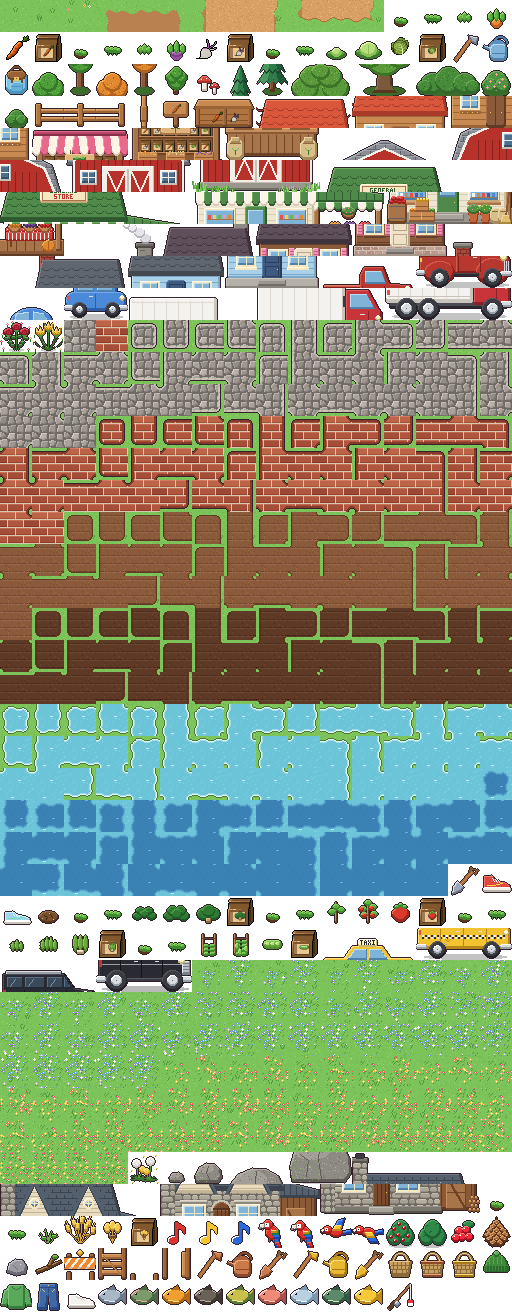
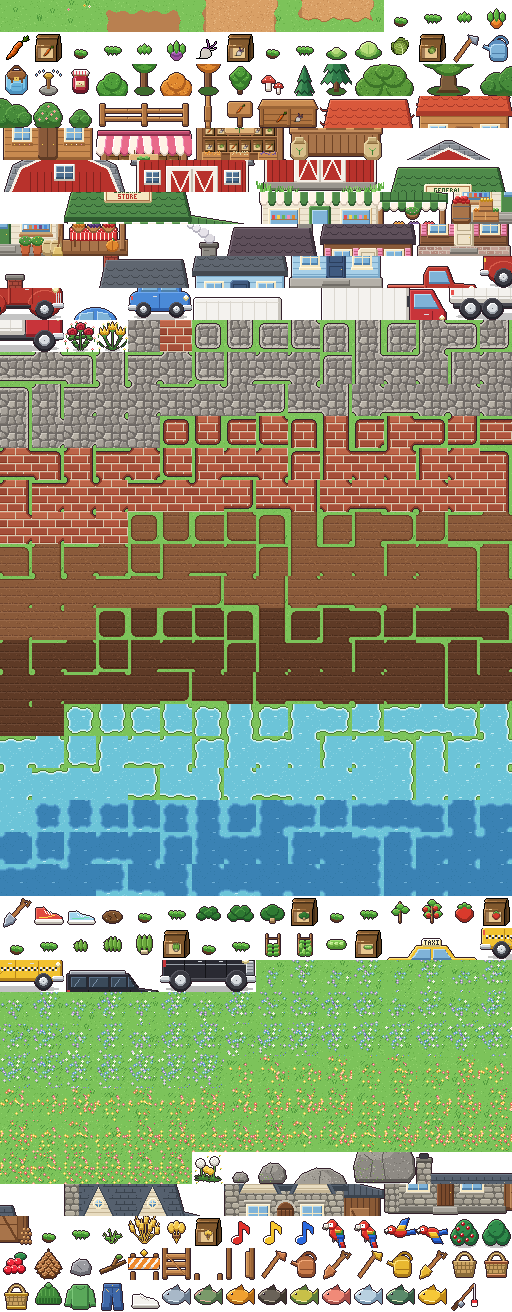
Crafting: sprinklers (water the 8 plots around them each morning) and berry jam, from Pause > Crafting
Claude-Session: https://claude.ai/code/session_015p9zHqe761HPZ9r97hGy59

diff --git a/src/art-index.js b/src/art-index.js
@@ -1,2 +1,2 @@
 // Generated by tools/make_art.py: tile names -> index in assets/art/world.png (16 columns of 32x32).
-export const A = {"grass0": 0, "grass1": 1, "grass2": 2, "path0": 3, "path1": 4, "path2": 5, "path3": 6, "path4": 7, "path5": 8, "path6": 9, "path7": 10, "path8": 11, "carrot0": 12, "carrot1": 13, "carrot2": 14, "carrot3": 15, "carrot_item": 16, "carrot_packet": 17, "turnip0": 18, "turnip1": 19, "turnip2": 20, "turnip3": 21, "turnip_item": 22, "turnip_packet": 23, "cabbage0": 24, "cabbage1": 25, "cabbage2": 26, "cabbage3": 27, "cabbage_item": 28, "cabbage_packet": 29, "hoe": 30, "can": 31, "bag": 32, "tree_green_0": 33, "tree_green_1": 34, "tree_orange_0": 35, "tree_orange_1": 36, "tree": 37, "mushrooms": 38, "pine_0": 39, "pine_1": 40, "oak_0": 41, "oak_1": 42, "oak_2": 43, "oak_3": 44, "shrub_large_0": 45, "shrub_large_1": 46, "shrub_flower": 47, "shrub_small": 48, "fence0": 49, "fence1": 50, "fence2": 51, "fence3": 52, "sign": 53, "bin_0": 54, "bin_1": 55, "house_0": 56, "house_1": 57, "house_2": 58, "house_3": 59, "house_4": 60, "house_5": 61, "house_6": 62, "house_7": 63, "house_8": 64, "shop_0": 65, "shop_1": 66, "shop_2": 67, "shop_3": 68, "shop_4": 69, "shop_5": 70, "shop_6": 71, "shop_7": 72, "shop_8": 73, "barn_0": 74, "barn_1": 75, "barn_2": 76, "barn_3": 77, "barn_4": 78, "barn_5": 79, "barn_6": 80, "barn_7": 81, "barn_8": 82, "barn_9": 83, "barn_10": 84, "barn_11": 85, "barn_12": 86, "barn_13": 87, "barn_14": 88, "barn_15": 89, "store_0": 90, "store_1": 91, "store_2": 92, "store_3": 93, "store_4": 94, "store_5": 95, "store_6": 96, "store_7": 97, "store_8": 98, "store_9": 99, "store_10": 100, "store_11": 101, "store_12": 102, "store_13": 103, "store_14": 104, "store_15": 105, "store_16": 106, "store_17": 107, "store_18": 108, "store_19": 109, "store_20": 110, "store_21": 111, "store_22": 112, "store_23": 113, "house_brown_0": 114, "house_brown_1": 115, "house_brown_2": 116, "house_brown_3": 117, "house_brown_4": 118, "house_brown_5": 119, "house_brown_6": 120, "house_brown_7": 121, "house_brown_8": 122, "house_brown_9": 123, "house_brown_10": 124, "house_brown_11": 125, "house_blue_0": 126, "house_blue_1": 127, "house_blue_2": 128, "house_blue_3": 129, "house_blue_4": 130, "house_blue_5": 131, "house_blue_6": 132, "house_blue_7": 133, "house_blue_8": 134, "house_blue_9": 135, "house_blue_10": 136, "house_blue_11": 137, "pickup_0": 138, "pickup_1": 139, "pickup_2": 140, "pickup_3": 141, "pickup_4": 142, "pickup_5": 143, "car_small_0": 144, "car_small_1": 145, "car_small_2": 146, "car_small_3": 147, "box_truck_0": 148, "box_truck_1": 149, "box_truck_2": 150, "box_truck_3": 151, "box_truck_4": 152, "box_truck_5": 153, "box_truck_6": 154, "box_truck_7": 155, "box_truck_8": 156, "box_truck_9": 157, "box_truck_10": 158, "box_truck_11": 159, "roses": 160, "tulips": 161, "cobble0": 162, "brick0": 163, "cobbleb0": 164, "cobbleb1": 165, "cobbleb2": 166, "cobbleb3": 167, "cobbleb4": 168, "cobbleb5": 169, "cobbleb6": 170, "cobbleb7": 171, "cobbleb8": 172, "cobbleb9": 173, "cobbleb10": 174, "cobbleb11": 175, "cobbleb12": 176, "cobbleb13": 177, "cobbleb14": 178, "cobbleb15": 179, "cobbleb16": 180, "cobbleb17": 181, "cobbleb18": 182, "cobbleb19": 183, "cobbleb20": 184, "cobbleb21": 185, "cobbleb22": 186, "cobbleb23": 187, "cobbleb24": 188, "cobbleb25": 189, "cobbleb26": 190, "cobbleb27": 191, "cobbleb28": 192, "cobbleb29": 193, "cobbleb30": 194, "cobbleb31": 195, "cobbleb32": 196, "cobbleb33": 197, "cobbleb34": 198, "cobbleb35": 199, "cobbleb36": 200, "cobbleb37": 201, "cobbleb38": 202, "cobbleb39": 203, "cobbleb40": 204, "cobbleb41": 205, "cobbleb42": 206, "cobbleb43": 207, "cobbleb44": 208, "cobbleb45": 209, "cobbleb46": 210, "brickb0": 211, "brickb1": 212, "brickb2": 213, "brickb3": 214, "brickb4": 215, "brickb5": 216, "brickb6": 217, "brickb7": 218, "brickb8": 219, "brickb9": 220, "brickb10": 221, "brickb11": 222, "brickb12": 223, "brickb13": 224, "brickb14": 225, "brickb15": 226, "brickb16": 227, "brickb17": 228, "brickb18": 229, "brickb19": 230, "brickb20": 231, "brickb21": 232, "brickb22": 233, "brickb23": 234, "brickb24": 235, "brickb25": 236, "brickb26": 237, "brickb27": 238, "brickb28": 239, "brickb29": 240, "brickb30": 241, "brickb31": 242, "brickb32": 243, "brickb33": 244, "brickb34": 245, "brickb35": 246, "brickb36": 247, "brickb37": 248, "brickb38": 249, "brickb39": 250, "brickb40": 251, "brickb41": 252, "brickb42": 253, "brickb43": 254, "brickb44": 255, "brickb45": 256, "brickb46": 257, "soil0": 258, "soil1": 259, "soil2": 260, "soil3": 261, "soil4": 262, "soil5": 263, "soil6": 264, "soil7": 265, "soil8": 266, "soil9": 267, "soil10": 268, "soil11": 269, "soil12": 270, "soil13": 271, "soil14": 272, "soil15": 273, "soil16": 274, "soil17": 275, "soil18": 276, "soil19": 277, "soil20": 278, "soil21": 279, "soil22": 280, "soil23": 281, "soil24": 282, "soil25": 283, "soil26": 284, "soil27": 285, "soil28": 286, "soil29": 287, "soil30": 288, "soil31": 289, "soil32": 290, "soil33": 291, "soil34": 292, "soil35": 293, "soil36": 294, "soil37": 295, "soil38": 296, "soil39": 297, "soil40": 298, "soil41": 299, "soil42": 300, "soil43": 301, "soil44": 302, "soil45": 303, "soil46": 304, "soilwet0": 305, "soilwet1": 306, "soilwet2": 307, "soilwet3": 308, "soilwet4": 309, "soilwet5": 310, "soilwet6": 311, "soilwet7": 312, "soilwet8": 313, "soilwet9": 314, "soilwet10": 315, "soilwet11": 316, "soilwet12": 317, "soilwet13": 318, "soilwet14": 319, "soilwet15": 320, "soilwet16": 321, "soilwet17": 322, "soilwet18": 323, "soilwet19": 324, "soilwet20": 325, "soilwet21": 326, "soilwet22": 327, "soilwet23": 328, "soilwet24": 329, "soilwet25": 330, "soilwet26": 331, "soilwet27": 332, "soilwet28": 333, "soilwet29": 334, "soilwet30": 335, "soilwet31": 336, "soilwet32": 337, "soilwet33": 338, "soilwet34": 339, "soilwet35": 340, "soilwet36": 341, "soilwet37": 342, "soilwet38": 343, "soilwet39": 344, "soilwet40": 345, "soilwet41": 346, "soilwet42": 347, "soilwet43": 348, "soilwet44": 349, "soilwet45": 350, "soilwet46": 351, "shallow0": 352, "shallow1": 353, "shallow2": 354, "shallow3": 355, "shallow4": 356, "shallow5": 357, "shallow6": 358, "shallow7": 359, "shallow8": 360, "shallow9": 361, "shallow10": 362, "shallow11": 363, "shallow12": 364, "shallow13": 365, "shallow14": 366, "shallow15": 367, "shallow16": 368, "shallow17": 369, "shallow18": 370, "shallow19": 371, "shallow20": 372, "shallow21": 373, "shallow22": 374, "shallow23": 375, "shallow24": 376, "shallow25": 377, "shallow26": 378, "shallow27": 379, "shallow28": 380, "shallow29": 381, "shallow30": 382, "shallow31": 383, "shallow32": 384, "shallow33": 385, "shallow34": 386, "shallow35": 387, "shallow36": 388, "shallow37": 389, "shallow38": 390, "shallow39": 391, "shallow40": 392, "shallow41": 393, "shallow42": 394, "shallow43": 395, "shallow44": 396, "shallow45": 397, "shallow46": 398, "deep0": 399, "deep1": 400, "deep2": 401, "deep3": 402, "deep4": 403, "deep5": 404, "deep6": 405, "deep7": 406, "deep8": 407, "deep9": 408, "deep10": 409, "deep11": 410, "deep12": 411, "deep13": 412, "deep14": 413, "deep15": 414, "deep16": 415, "deep17": 416, "deep18": 417, "deep19": 418, "deep20": 419, "deep21": 420, "deep22": 421, "deep23": 422, "deep24": 423, "deep25": 424, "deep26": 425, "deep27": 426, "deep28": 427, "deep29": 428, "deep30": 429, "deep31": 430, "deep32": 431, "deep33": 432, "deep34": 433, "deep35": 434, "deep36": 435, "deep37": 436, "deep38": 437, "deep39": 438, "deep40": 439, "deep41": 440, "deep42": 441, "deep43": 442, "deep44": 443, "deep45": 444, "deep46": 445, "shovel": 446, "shoes": 447, "sneakers": 448, "dig_spot": 449, "spinach0": 450, "spinach1": 451, "spinach2": 452, "spinach3": 453, "spinach_item": 454, "spinach_packet": 455, "tomato0": 456, "tomato1": 457, "tomato2": 458, "tomato3": 459, "tomato_item": 460, "tomato_packet": 461, "arugula0": 462, "arugula1": 463, "arugula2": 464, "arugula3": 465, "arugula_item": 466, "arugula_packet": 467, "peas0": 468, "peas1": 469, "peas2": 470, "peas3": 471, "peas_item": 472, "peas_packet": 473, "taxi_0": 474, "taxi_1": 475, "taxi_2": 476, "taxi_3": 477, "taxi_4": 478, "taxi_5": 479, "suv_0": 480, "suv_1": 481, "suv_2": 482, "suv_3": 483, "suv_4": 484, "suv_5": 485, "wildcool0": 486, "wildcool1": 487, "wildcool2": 488, "wildcool3": 489, "wildcool4": 490, "wildcool5": 491, "wildcool6": 492, "wildcool7": 493, "wildcool8": 494, "wildcool9": 495, "wildcool10": 496, "wildcool11": 497, "wildcool12": 498, "wildcool13": 499, "wildcool14": 500, "wildcool15": 501, "wildcool16": 502, "wildcool17": 503, "wildcool18": 504, "wildcool19": 505, "wildcool20": 506, "wildcool21": 507, "wildcool22": 508, "wildcool23": 509, "wildcool24": 510, "wildcool25": 511, "wildcool26": 512, "wildcool27": 513, "wildcool28": 514, "wildcool29": 515, "wildcool30": 516, "wildcool31": 517, "wildcool32": 518, "wildcool33": 519, "wildcool34": 520, "wildcool35": 521, "wildcool36": 522, "wildcool37": 523, "wildcool38": 524, "wildcool39": 525, "wildcool40": 526, "wildcool41": 527, "wildcool42": 528, "wildcool43": 529, "wildcool44": 530, "wildcool45": 531, "wildcool46": 532, "wildwarm0": 533, "wildwarm1": 534, "wildwarm2": 535, "wildwarm3": 536, "wildwarm4": 537, "wildwarm5": 538, "wildwarm6": 539, "wildwarm7": 540, "wildwarm8": 541, "wildwarm9": 542, "wildwarm10": 543, "wildwarm11": 544, "wildwarm12": 545, "wildwarm13": 546, "wildwarm14": 547, "wildwarm15": 548, "wildwarm16": 549, "wildwarm17": 550, "wildwarm18": 551, "wildwarm19": 552, "wildwarm20": 553, "wildwarm21": 554, "wildwarm22": 555, "wildwarm23": 556, "wildwarm24": 557, "wildwarm25": 558, "wildwarm26": 559, "wildwarm27": 560, "wildwarm28": 561, "wildwarm29": 562, "wildwarm30": 563, "wildwarm31": 564, "wildwarm32": 565, "wildwarm33": 566, "wildwarm34": 567, "wildwarm35": 568, "wildwarm36": 569, "wildwarm37": 570, "wildwarm38": 571, "wildwarm39": 572, "wildwarm40": 573, "wildwarm41": 574, "wildwarm42": 575, "wildwarm43": 576, "wildwarm44": 577, "wildwarm45": 578, "wildwarm46": 579, "dandelions": 580, "rock_small": 581, "rock_medium": 582, "rock_large_0": 583, "rock_large_1": 584, "rock_large_2": 585, "rock_large_3": 586, "stone_house_0": 587, "stone_house_1": 588, "stone_house_2": 589, "stone_house_3": 590, "stone_house_4": 591, "stone_house_5": 592, "stone_house_6": 593, "stone_house_7": 594, "stone_house_8": 595, "stone_house_9": 596, "stone_house_10": 597, "stone_house_11": 598, "stone_house_12": 599, "stone_house_13": 600, "stone_house_14": 601, "stone_house_15": 602, "stone_house_16": 603, "stone_house_17": 604, "stone_house_18": 605, "stone_house_19": 606, "wheat0": 607, "wheat1": 608, "wheat2": 609, "wheat3": 610, "wheat_item": 611, "wheat_packet": 612, "note_red": 613, "note_yellow": 614, "note_blue": 615, "bird0": 616, "bird1": 617, "bird_fly0": 618, "bird_fly1": 619, "berry_bush": 620, "berry_bush_bare": 621, "berries": 622, "pinecone": 623, "stone": 624, "stick": 625, "gate_0": 626, "gate_1": 627, "gate_open_0": 628, "gate_open_1": 629, "hoe_copper": 630, "can_copper": 631, "shovel_copper": 632, "hoe_gold": 633, "can_gold": 634, "shovel_gold": 635, "basket": 636, "basket_copper": 637, "basket_gold": 638, "beanie": 639, "longsleeve": 640, "jeans": 641, "white_sneakers": 642, "fish_minnow": 643, "fish_trout": 644, "fish_sunfish": 645, "fish_catfish": 646, "fish_perch": 647, "fish_salmon": 648, "fish_smelt": 649, "fish_pike": 650, "fish_carp": 651, "rod": 652};
+export const A = {"grass0": 0, "grass1": 1, "grass2": 2, "path0": 3, "path1": 4, "path2": 5, "path3": 6, "path4": 7, "path5": 8, "path6": 9, "path7": 10, "path8": 11, "carrot0": 12, "carrot1": 13, "carrot2": 14, "carrot3": 15, "carrot_item": 16, "carrot_packet": 17, "turnip0": 18, "turnip1": 19, "turnip2": 20, "turnip3": 21, "turnip_item": 22, "turnip_packet": 23, "cabbage0": 24, "cabbage1": 25, "cabbage2": 26, "cabbage3": 27, "cabbage_item": 28, "cabbage_packet": 29, "hoe": 30, "can": 31, "bag": 32, "sprinkler": 33, "jam": 34, "tree_green_0": 35, "tree_green_1": 36, "tree_orange_0": 37, "tree_orange_1": 38, "tree": 39, "mushrooms": 40, "pine_0": 41, "pine_1": 42, "oak_0": 43, "oak_1": 44, "oak_2": 45, "oak_3": 46, "shrub_large_0": 47, "shrub_large_1": 48, "shrub_flower": 49, "shrub_small": 50, "fence0": 51, "fence1": 52, "fence2": 53, "fence3": 54, "sign": 55, "bin_0": 56, "bin_1": 57, "house_0": 58, "house_1": 59, "house_2": 60, "house_3": 61, "house_4": 62, "house_5": 63, "house_6": 64, "house_7": 65, "house_8": 66, "shop_0": 67, "shop_1": 68, "shop_2": 69, "shop_3": 70, "shop_4": 71, "shop_5": 72, "shop_6": 73, "shop_7": 74, "shop_8": 75, "barn_0": 76, "barn_1": 77, "barn_2": 78, "barn_3": 79, "barn_4": 80, "barn_5": 81, "barn_6": 82, "barn_7": 83, "barn_8": 84, "barn_9": 85, "barn_10": 86, "barn_11": 87, "barn_12": 88, "barn_13": 89, "barn_14": 90, "barn_15": 91, "store_0": 92, "store_1": 93, "store_2": 94, "store_3": 95, "store_4": 96, "store_5": 97, "store_6": 98, "store_7": 99, "store_8": 100, "store_9": 101, "store_10": 102, "store_11": 103, "store_12": 104, "store_13": 105, "store_14": 106, "store_15": 107, "store_16": 108, "store_17": 109, "store_18": 110, "store_19": 111, "store_20": 112, "store_21": 113, "store_22": 114, "store_23": 115, "house_brown_0": 116, "house_brown_1": 117, "house_brown_2": 118, "house_brown_3": 119, "house_brown_4": 120, "house_brown_5": 121, "house_brown_6": 122, "house_brown_7": 123, "house_brown_8": 124, "house_brown_9": 125, "house_brown_10": 126, "house_brown_11": 127, "house_blue_0": 128, "house_blue_1": 129, "house_blue_2": 130, "house_blue_3": 131, "house_blue_4": 132, "house_blue_5": 133, "house_blue_6": 134, "house_blue_7": 135, "house_blue_8": 136, "house_blue_9": 137, "house_blue_10": 138, "house_blue_11": 139, "pickup_0": 140, "pickup_1": 141, "pickup_2": 142, "pickup_3": 143, "pickup_4": 144, "pickup_5": 145, "car_small_0": 146, "car_small_1": 147, "car_small_2": 148, "car_small_3": 149, "box_truck_0": 150, "box_truck_1": 151, "box_truck_2": 152, "box_truck_3": 153, "box_truck_4": 154, "box_truck_5": 155, "box_truck_6": 156, "box_truck_7": 157, "box_truck_8": 158, "box_truck_9": 159, "box_truck_10": 160, "box_truck_11": 161, "roses": 162, "tulips": 163, "cobble0": 164, "brick0": 165, "cobbleb0": 166, "cobbleb1": 167, "cobbleb2": 168, "cobbleb3": 169, "cobbleb4": 170, "cobbleb5": 171, "cobbleb6": 172, "cobbleb7": 173, "cobbleb8": 174, "cobbleb9": 175, "cobbleb10": 176, "cobbleb11": 177, "cobbleb12": 178, "cobbleb13": 179, "cobbleb14": 180, "cobbleb15": 181, "cobbleb16": 182, "cobbleb17": 183, "cobbleb18": 184, "cobbleb19": 185, "cobbleb20": 186, "cobbleb21": 187, "cobbleb22": 188, "cobbleb23": 189, "cobbleb24": 190, "cobbleb25": 191, "cobbleb26": 192, "cobbleb27": 193, "cobbleb28": 194, "cobbleb29": 195, "cobbleb30": 196, "cobbleb31": 197, "cobbleb32": 198, "cobbleb33": 199, "cobbleb34": 200, "cobbleb35": 201, "cobbleb36": 202, "cobbleb37": 203, "cobbleb38": 204, "cobbleb39": 205, "cobbleb40": 206, "cobbleb41": 207, "cobbleb42": 208, "cobbleb43": 209, "cobbleb44": 210, "cobbleb45": 211, "cobbleb46": 212, "brickb0": 213, "brickb1": 214, "brickb2": 215, "brickb3": 216, "brickb4": 217, "brickb5": 218, "brickb6": 219, "brickb7": 220, "brickb8": 221, "brickb9": 222, "brickb10": 223, "brickb11": 224, "brickb12": 225, "brickb13": 226, "brickb14": 227, "brickb15": 228, "brickb16": 229, "brickb17": 230, "brickb18": 231, "brickb19": 232, "brickb20": 233, "brickb21": 234, "brickb22": 235, "brickb23": 236, "brickb24": 237, "brickb25": 238, "brickb26": 239, "brickb27": 240, "brickb28": 241, "brickb29": 242, "brickb30": 243, "brickb31": 244, "brickb32": 245, "brickb33": 246, "brickb34": 247, "brickb35": 248, "brickb36": 249, "brickb37": 250, "brickb38": 251, "brickb39": 252, "brickb40": 253, "brickb41": 254, "brickb42": 255, "brickb43": 256, "brickb44": 257, "brickb45": 258, "brickb46": 259, "soil0": 260, "soil1": 261, "soil2": 262, "soil3": 263, "soil4": 264, "soil5": 265, "soil6": 266, "soil7": 267, "soil8": 268, "soil9": 269, "soil10": 270, "soil11": 271, "soil12": 272, "soil13": 273, "soil14": 274, "soil15": 275, "soil16": 276, "soil17": 277, "soil18": 278, "soil19": 279, "soil20": 280, "soil21": 281, "soil22": 282, "soil23": 283, "soil24": 284, "soil25": 285, "soil26": 286, "soil27": 287, "soil28": 288, "soil29": 289, "soil30": 290, "soil31": 291, "soil32": 292, "soil33": 293, "soil34": 294, "soil35": 295, "soil36": 296, "soil37": 297, "soil38": 298, "soil39": 299, "soil40": 300, "soil41": 301, "soil42": 302, "soil43": 303, "soil44": 304, "soil45": 305, "soil46": 306, "soilwet0": 307, "soilwet1": 308, "soilwet2": 309, "soilwet3": 310, "soilwet4": 311, "soilwet5": 312, "soilwet6": 313, "soilwet7": 314, "soilwet8": 315, "soilwet9": 316, "soilwet10": 317, "soilwet11": 318, "soilwet12": 319, "soilwet13": 320, "soilwet14": 321, "soilwet15": 322, "soilwet16": 323, "soilwet17": 324, "soilwet18": 325, "soilwet19": 326, "soilwet20": 327, "soilwet21": 328, "soilwet22": 329, "soilwet23": 330, "soilwet24": 331, "soilwet25": 332, "soilwet26": 333, "soilwet27": 334, "soilwet28": 335, "soilwet29": 336, "soilwet30": 337, "soilwet31": 338, "soilwet32": 339, "soilwet33": 340, "soilwet34": 341, "soilwet35": 342, "soilwet36": 343, "soilwet37": 344, "soilwet38": 345, "soilwet39": 346, "soilwet40": 347, "soilwet41": 348, "soilwet42": 349, "soilwet43": 350, "soilwet44": 351, "soilwet45": 352, "soilwet46": 353, "shallow0": 354, "shallow1": 355, "shallow2": 356, "shallow3": 357, "shallow4": 358, "shallow5": 359, "shallow6": 360, "shallow7": 361, "shallow8": 362, "shallow9": 363, "shallow10": 364, "shallow11": 365, "shallow12": 366, "shallow13": 367, "shallow14": 368, "shallow15": 369, "shallow16": 370, "shallow17": 371, "shallow18": 372, "shallow19": 373, "shallow20": 374, "shallow21": 375, "shallow22": 376, "shallow23": 377, "shallow24": 378, "shallow25": 379, "shallow26": 380, "shallow27": 381, "shallow28": 382, "shallow29": 383, "shallow30": 384, "shallow31": 385, "shallow32": 386, "shallow33": 387, "shallow34": 388, "shallow35": 389, "shallow36": 390, "shallow37": 391, "shallow38": 392, "shallow39": 393, "shallow40": 394, "shallow41": 395, "shallow42": 396, "shallow43": 397, "shallow44": 398, "shallow45": 399, "shallow46": 400, "deep0": 401, "deep1": 402, "deep2": 403, "deep3": 404, "deep4": 405, "deep5": 406, "deep6": 407, "deep7": 408, "deep8": 409, "deep9": 410, "deep10": 411, "deep11": 412, "deep12": 413, "deep13": 414, "deep14": 415, "deep15": 416, "deep16": 417, "deep17": 418, "deep18": 419, "deep19": 420, "deep20": 421, "deep21": 422, "deep22": 423, "deep23": 424, "deep24": 425, "deep25": 426, "deep26": 427, "deep27": 428, "deep28": 429, "deep29": 430, "deep30": 431, "deep31": 432, "deep32": 433, "deep33": 434, "deep34": 435, "deep35": 436, "deep36": 437, "deep37": 438, "deep38": 439, "deep39": 440, "deep40": 441, "deep41": 442, "deep42": 443, "deep43": 444, "deep44": 445, "deep45": 446, "deep46": 447, "shovel": 448, "shoes": 449, "sneakers": 450, "dig_spot": 451, "spinach0": 452, "spinach1": 453, "spinach2": 454, "spinach3": 455, "spinach_item": 456, "spinach_packet": 457, "tomato0": 458, "tomato1": 459, "tomato2": 460, "tomato3": 461, "tomato_item": 462, "tomato_packet": 463, "arugula0": 464, "arugula1": 465, "arugula2": 466, "arugula3": 467, "arugula_item": 468, "arugula_packet": 469, "peas0": 470, "peas1": 471, "peas2": 472, "peas3": 473, "peas_item": 474, "peas_packet": 475, "taxi_0": 476, "taxi_1": 477, "taxi_2": 478, "taxi_3": 479, "taxi_4": 480, "taxi_5": 481, "suv_0": 482, "suv_1": 483, "suv_2": 484, "suv_3": 485, "suv_4": 486, "suv_5": 487, "wildcool0": 488, "wildcool1": 489, "wildcool2": 490, "wildcool3": 491, "wildcool4": 492, "wildcool5": 493, "wildcool6": 494, "wildcool7": 495, "wildcool8": 496, "wildcool9": 497, "wildcool10": 498, "wildcool11": 499, "wildcool12": 500, "wildcool13": 501, "wildcool14": 502, "wildcool15": 503, "wildcool16": 504, "wildcool17": 505, "wildcool18": 506, "wildcool19": 507, "wildcool20": 508, "wildcool21": 509, "wildcool22": 510, "wildcool23": 511, "wildcool24": 512, "wildcool25": 513, "wildcool26": 514, "wildcool27": 515, "wildcool28": 516, "wildcool29": 517, "wildcool30": 518, "wildcool31": 519, "wildcool32": 520, "wildcool33": 521, "wildcool34": 522, "wildcool35": 523, "wildcool36": 524, "wildcool37": 525, "wildcool38": 526, "wildcool39": 527, "wildcool40": 528, "wildcool41": 529, "wildcool42": 530, "wildcool43": 531, "wildcool44": 532, "wildcool45": 533, "wildcool46": 534, "wildwarm0": 535, "wildwarm1": 536, "wildwarm2": 537, "wildwarm3": 538, "wildwarm4": 539, "wildwarm5": 540, "wildwarm6": 541, "wildwarm7": 542, "wildwarm8": 543, "wildwarm9": 544, "wildwarm10": 545, "wildwarm11": 546, "wildwarm12": 547, "wildwarm13": 548, "wildwarm14": 549, "wildwarm15": 550, "wildwarm16": 551, "wildwarm17": 552, "wildwarm18": 553, "wildwarm19": 554, "wildwarm20": 555, "wildwarm21": 556, "wildwarm22": 557, "wildwarm23": 558, "wildwarm24": 559, "wildwarm25": 560, "wildwarm26": 561, "wildwarm27": 562, "wildwarm28": 563, "wildwarm29": 564, "wildwarm30": 565, "wildwarm31": 566, "wildwarm32": 567, "wildwarm33": 568, "wildwarm34": 569, "wildwarm35": 570, "wildwarm36": 571, "wildwarm37": 572, "wildwarm38": 573, "wildwarm39": 574, "wildwarm40": 575, "wildwarm41": 576, "wildwarm42": 577, "wildwarm43": 578, "wildwarm44": 579, "wildwarm45": 580, "wildwarm46": 581, "dandelions": 582, "rock_small": 583, "rock_medium": 584, "rock_large_0": 585, "rock_large_1": 586, "rock_large_2": 587, "rock_large_3": 588, "stone_house_0": 589, "stone_house_1": 590, "stone_house_2": 591, "stone_house_3": 592, "stone_house_4": 593, "stone_house_5": 594, "stone_house_6": 595, "stone_house_7": 596, "stone_house_8": 597, "stone_house_9": 598, "stone_house_10": 599, "stone_house_11": 600, "stone_house_12": 601, "stone_house_13": 602, "stone_house_14": 603, "stone_house_15": 604, "stone_house_16": 605, "stone_house_17": 606, "stone_house_18": 607, "stone_house_19": 608, "wheat0": 609, "wheat1": 610, "wheat2": 611, "wheat3": 612, "wheat_item": 613, "wheat_packet": 614, "note_red": 615, "note_yellow": 616, "note_blue": 617, "bird0": 618, "bird1": 619, "bird_fly0": 620, "bird_fly1": 621, "berry_bush": 622, "berry_bush_bare": 623, "berries": 624, "pinecone": 625, "stone": 626, "stick": 627, "gate_0": 628, "gate_1": 629, "gate_open_0": 630, "gate_open_1": 631, "hoe_copper": 632, "can_copper": 633, "shovel_copper": 634, "hoe_gold": 635, "can_gold": 636, "shovel_gold": 637, "basket": 638, "basket_copper": 639, "basket_gold": 640, "beanie": 641, "longsleeve": 642, "jeans": 643, "white_sneakers": 644, "fish_minnow": 645, "fish_trout": 646, "fish_sunfish": 647, "fish_catfish": 648, "fish_perch": 649, "fish_salmon": 650, "fish_smelt": 651, "fish_pike": 652, "fish_carp": 653, "rod": 654};

diff --git a/src/scenes.js b/src/scenes.js
@@ -23,6 +23,7 @@ import { TRAVELLER_CHANCE, STRANGER_CHANCE, HELLOS, LINES, travellerLook, paintT
 import { Support, PEOPLE, PERK_AT, MAX_HEARTS, chatter } from './support.js';
 import { Book, GUIDE, GOAL, CREDITS, CONTROLS } from './guide.js';
 import { Inventory, TOOLS, HOTBAR, LOCKED, BAG, BIN } from './inventory.js';
+import { RECIPES, missing, sprinkled } from './crafting.js';
 
 const CHARACTERS = [
   { sheet: 'male', label: 'Male' },
@@ -209,14 +210,14 @@ export class World {
     this.events = new Events(); // today's random events
     this.quests = new Quests();
     this.levels = { ...START_LEVELS }; this.upgrading = null; // tool levels, and the one Bella has overnight: { tool, level }
-    this.tilled = []; this.wilds = null; this.confirm = null; this.pouch = false; this.qty = {}; this.shopSel = 0; this.storeTab = 'goods'; this.pets = []; // pets: adopted cats and dogs (their looks, from pets.js) // farm tiles the hoe has turned into new plots
+    this.tilled = []; this.wilds = null; this.confirm = null; this.pouch = false; this.qty = {}; this.sprinklers = []; this.craftMsg = ''; this.shopSel = 0; this.storeTab = 'goods'; this.pets = []; // pets: adopted cats and dogs (their looks, from pets.js) // farm tiles the hoe has turned into new plots
     this.clock.on('overnight', () => {
       this.quests.tick(0, true);
       if (this.upgrading) { const { tool, level } = this.upgrading; this.levels[tool] = level; this.upgradeNews = ` Bella finished your ${toolName(tool, level)}!`; this.upgrading = null; }
       const k = this.clock, next = k.day >= DAYS_PER_SEASON ? (k.season + 1) % SEASONS.length : k.season;
       const soak = () => { if (this.rain) for (const p of this.field.plots.values()) if (p) p.wet = true; };
       soak(); this.field.overnight(); this.support.overnight(Math.random, next); this.scatterDigs(); // rain also waters what you planted in it
-      this.rain = Math.random() < RAIN[next]; soak();
+      this.rain = Math.random() < RAIN[next]; soak(); this.sprinkle();
       this.paid = this.binValue(this.inv.emptyBin()); this.withered = 0;
       this.gold += this.paid;
     });
@@ -239,7 +240,7 @@ export class World {
     return {
       v: 1, layout: FARM_LAYOUT, sheet: this.sheet, gold: this.gold, seeds: this.seeds, seed: this.seed, gear: this.gear, worn: this.worn, moved: this.moved, quests: this.quests.state, levels: this.levels, upgrading: this.upgrading, tilled: this.tilled, pets: this.pets, wilds: this.wildsSave(), world: this.worldSave(),
       clock: { day: k.day, season: k.season, year: k.year, energy: k.energy }, at: { minutes: k.minutes, map: here, x: this.x, y: this.y },
-      plots: [...this.field.plots].filter(([, p]) => p), slots: this.inv.slots, sel: this.inv.sel, support: this.support.state, rain: !!this.rain,
+      plots: [...this.field.plots].filter(([, p]) => p), slots: this.inv.slots, sel: this.inv.sel, support: this.support.state, rain: !!this.rain, sprinklers: this.sprinklers,
     };
   }
   restore(s) {
@@ -252,6 +253,7 @@ export class World {
     this.moved = s.layout === FARM_LAYOUT && s.moved || { gone: [], put: [] }; // plants moved on an older farm layout don't carry over
     for (const key of this.moved.gone) this.unplant(key);
     for (const [key, id] of this.moved.put) this.plant(key, id);
+    for (const key of s.sprinklers ?? []) this.setSprinkler(key);
     this.quests = new Quests(s.quests);
     this.pets = s.pets ?? []; this.homePets();
     if (s.wilds) this.freshen('wilds', s.wilds);
@@ -651,6 +653,16 @@ export class World {
     if (held === 'hoe' && this.levels.hoe >= 2 && this.till(key)) return;
     if (held === 'can' && this.levels.can >= 2 && this.onFarm && this.water(key)) return;
     if (held === 'shovel') return this.dig(key);
+    if (this.onFarm && this.sprinklers.includes(key)) {
+      if (!this.inv.add('sprinkler')) return this.say('Your bag is full.');
+      this.setSprinkler(key, false); sfx('dig'); return this.say('Picked up the sprinkler.');
+    }
+    if (held === 'sprinkler') {
+      if (!this.onFarm) return this.say('Sprinklers go on your farm.');
+      if (!this.openGrass(key)) return this.say('It needs an open patch of grass, next to your crops.');
+      this.inv.take('sprinkler', 1); this.setSprinkler(key); sfx('plant');
+      return this.say('Placed the sprinkler. It waters the 8 plots around it each morning.');
+    }
     if (PLANTS[held]) return this.replant(key, held);
     if (FORAGE[held]?.energy) return this.eat(held);
     if (!this.onFarm || !f.has(key)) return CROPS[held] && this.say(`That's ${aCrop(held)}.`);
@@ -777,11 +789,16 @@ export class World {
     if (this.menu === 'pause') return [
       { label: 'Resume', go: () => { this.menu = null; } },
       { label: 'How to Play', go: () => { this.menu = 'guide'; this.book = new Book(GUIDE, () => this.openMenu('pause'), GOAL); sfx('click'); } },
+      { label: 'Crafting', go: () => { this.openMenu('craft'); this.craftMsg = ''; } },
       { label: 'Equipment', go: () => this.openMenu('equipment') },
       { label: 'Friends', go: () => this.openMenu('friends') },
       { label: 'Quests', go: () => this.openMenu('quests') },
       { label: 'Settings', go: () => this.openMenu('settings') },
       { label: 'Save and quit', go: () => { this.autosave(); stopMusic(); this.g.go(new SaveSelect()); } },
+    ];
+    if (this.menu === 'craft') return [
+      ...Object.entries(RECIPES).map(([id, r]) => ({ label: `${r.name} · ${Object.entries(r.needs).map(([k, n]) => this.nOf(k, n)).join(', ')}`, go: () => this.craft(id) })),
+      { label: 'Back', go: () => this.openMenu('pause') },
     ];
     if (this.menu === 'equipment') return [
       ...Object.entries(WEAR_SLOTS).map(([slot, label]) => {
@@ -805,8 +822,8 @@ export class World {
     return [{ label: 'Back', go: () => (this.back ? this.openMenu(this.back) : (this.menu = null)) }];
   }
   menuLayout() {
-    const g = this.g, items = this.menuItems(), lines = this.menu === 'controls' ? CONTROLS.length : this.menu === 'friends' ? Object.keys(PEOPLE).length * 3 : this.menu === 'equipment' ? 2 : this.menu === 'quests' ? 2 * Math.max(1, this.quests.log(() => 0).length) : 0;
-    const w = this.menu === 'friends' || this.menu === 'quests' ? 170 : this.menu === 'equipment' ? 180 : 150, h = 22 + lines * 9 + items.length * 18, x = Math.round(g.w / 2 - w / 2), y = Math.round(g.h / 2 - h / 2);
+    const g = this.g, items = this.menuItems(), lines = this.menu === 'controls' ? CONTROLS.length : this.menu === 'friends' ? Object.keys(PEOPLE).length * 3 : this.menu === 'equipment' ? 2 : this.menu === 'craft' ? 4 : this.menu === 'quests' ? 2 * Math.max(1, this.quests.log(() => 0).length) : 0;
+    const w = this.menu === 'friends' || this.menu === 'quests' ? 170 : this.menu === 'equipment' || this.menu === 'craft' ? 180 : 150, h = 22 + lines * 9 + items.length * 18, x = Math.round(g.w / 2 - w / 2), y = Math.round(g.h / 2 - h / 2);
     const rows = items.map((it, i) => ({ ...it, r: [x + 6, y + 18 + lines * 9 + i * 18, w - 12, 16] }));
     return { x, y, w, h, rows, top: y + 18 };
   }
@@ -832,7 +849,7 @@ export class World {
     const g = this.g, { x, y, w, h, rows, top } = this.menuLayout();
     g.ctx.fillStyle = '#0b142888'; g.ctx.fillRect(0, 0, g.w, g.h);
     g.panel(x, y, w, h, '#3f2631f2');
-    const title = { pause: 'Paused', settings: 'Settings', controls: 'Controls', friends: 'Friends', equipment: 'Equipment', quests: 'Quests' }[this.menu];
+    const title = { pause: 'Paused', settings: 'Settings', controls: 'Controls', friends: 'Friends', equipment: 'Equipment', quests: 'Quests', craft: 'Crafting' }[this.menu];
     g.text(title, x + w / 2, y + 5, { size: 8, align: 'center', color: '#fff3a8' });
     if (this.menu === 'pause') g.text(`Saved this morning · ♪ ${musicName()}`, x + w / 2, y + h + 3, { size: 5, align: 'center', color: '#e2f0d4' });
     if (this.menu === 'friends') Object.entries(PEOPLE).forEach(([id, who], i) => {
@@ -847,6 +864,12 @@ export class World {
       const on = Object.values(this.worn).map(id => GOODS[id].about);
       this.wrap(on.length ? on.join(' ') : 'Buy clothes at the General Store, then wear them here.', w - 16, 5).slice(0, 2)
         .forEach((l, i) => g.text(l, x + 8, top + i * 9, { size: 5, color: on.length ? '#86cf5e' : '#dcebc6' }));
+    }
+    if (this.menu === 'craft') { // what the picked recipe does, what you have, and how the last try went
+      const r = this.menuItems()[this.mi], id = Object.keys(RECIPES)[this.mi], have = ['stone', 'stick', 'berries'].map(k => this.nOf(k, this.inv.count(k))).join(' · ');
+      g.text(`You have: ${have}`, x + 8, top, { size: 5, color: '#dcebc6' });
+      this.wrap(RECIPES[id]?.about ?? 'Gather stones, sticks and berries out in the Wilds.', w - 16, 5).slice(0, 2).forEach((l, i) => g.text(l, x + 8, top + 9 + i * 8, { size: 5, color: r && id && !missing(id, k => this.inv.count(k)).length ? '#86cf5e' : '#e2f0d4' }));
+      if (this.craftMsg) g.text(this.craftMsg, x + 8, top + 27, { size: 5, color: '#fff3a8' });
     }
     if (this.menu === 'quests') {
       const log = this.quests.log(id => this.inv.count(id));
@@ -884,6 +907,24 @@ export class World {
     for (const m of Object.values(this.maps)) regrowBushes(m);
     scatterForage(this.maps.farm, SPREAD.farm);
   }
+  // Sprinklers: Use while holding one to set it on open grass on your farm; Use on one to pick it back up.
+  setSprinkler(key, on = true) {
+    const m = this.maps.farm, [x, y] = key.split(',').map(Number);
+    if (on) { m.objects.push({ x: x * TILE, y: y * TILE, base: (y + 1) * TILE, tiles: [['sprinkler']] }); this.sprinklers.push(key); }
+    else { m.objects.splice(m.objects.findIndex(o => o.tiles[0][0] === 'sprinkler' && o.x === x * TILE && o.y === y * TILE), 1); this.sprinklers.splice(this.sprinklers.indexOf(key), 1); }
+    m.solid[y * m.W + x] = on ? 1 : 0;
+  }
+  sprinkle() { for (const k of sprinkled(this.sprinklers)) if (this.field.get(k)) this.field.get(k).wet = true; }
+  // "3 sticks", "1 stone", "2 more berries".
+  nOf(k, n, more = '') { const w = FORAGE[k].name.toLowerCase(); return `${n} ${more}${n === 1 || w.endsWith('s') ? w : w + 's'}`; }
+  // Crafting: make one of a recipe from what you carry.
+  craft(id) {
+    const r = RECIPES[id], short = missing(id, k => this.inv.count(k));
+    if (short.length) { sfx('nope'); return (this.craftMsg = `Need ${short.map(([k, n]) => this.nOf(k, n, 'more ')).join(' and ')}.`); }
+    if (!this.inv.add(id)) return (this.craftMsg = 'Your bag is full.');
+    for (const [k, n] of Object.entries(r.needs)) this.inv.take(k, n);
+    sfx('harvest'); this.craftMsg = `Made ${id === 'jam' ? 'a jar of Berry Jam' : `a ${r.name}`}! It's in your bag.`;
+  }
   plantAt(key, map = this.map) {
     return map.objects.find(o => `${o.x / TILE},${o.y / TILE}` === key && o.tiles.length === 1 && o.tiles[0].length === 1 && PLANTS[o.tiles[0][0]]);
   }
@@ -920,11 +961,15 @@ export class World {
     if (put >= 0) this.moved.put.splice(put, 1); else this.moved.gone.push(key);
     this.say(`Dug up the ${PLANTS[id].name}. Plant it anywhere on your farm.`);
   }
-  replant(key, id) {
+  // An open patch of grass on the map you're on: nothing built, planted or tilled there.
+  openGrass(key) {
     const m = this.map, [x, y] = key.split(',').map(Number);
-    if (!this.onFarm) return this.say('Plant it on your farm.');
     const taken = this.field.has(key) || [m.door, ...m.bin].includes(key) || m.objects.some(o => o.tiles.some((row, j) => row.some((_, i) => `${o.x / TILE + i},${o.y / TILE + j}` === key)));
-    if (x < 0 || y < 0 || x >= m.W || y >= m.H || taken || m.solid[y * m.W + x] || !m.ground[y * m.W + x].startsWith('grass')) return this.say('It needs an open patch of grass.');
+    return !(x < 0 || y < 0 || x >= m.W || y >= m.H || taken || m.solid[y * m.W + x] || !m.ground[y * m.W + x].startsWith('grass'));
+  }
+  replant(key, id) {
+    if (!this.onFarm) return this.say('Plant it on your farm.');
+    if (!this.openGrass(key)) return this.say('It needs an open patch of grass.');
     this.inv.take(id, 1); this.plant(key, id); sfx('plant');
     this.moved.put.push([key, id]);
     this.say(`Planted the ${PLANTS[id].name}.`);

diff --git a/src/map-data.js b/src/map-data.js
@@ -43,7 +43,7 @@ const SIZES = {
   taxi: { w: 3, h: 2, solid: 1 }, suv: { w: 3, h: 2, solid: 1 }, rock_large: { w: 2, h: 2, solid: 1 }, stone_house: { w: 5, h: 4, solid: 3 },
 };
 const WALK_THROUGH = new Set(['mushrooms', 'roses', 'tulips', 'dandelions', 'rock_small']);
-const NOT_PLACEABLE = new Set(['hoe', 'can', 'bag', 'shovel', 'rod', 'shoes', 'sneakers', 'dig_spot', 'basket', 'basket_copper', 'basket_gold', 'hoe_copper', 'hoe_gold', 'can_copper', 'can_gold', 'shovel_copper', 'shovel_gold', 'berry_bush_bare', 'berries', 'pinecone', 'stone', 'stick', 'beanie', 'longsleeve', 'jeans', 'white_sneakers', 'note_red', 'note_yellow', 'note_blue', 'bird0', 'bird1', 'bird_fly0', 'bird_fly1', ...Object.values(CROPS).flatMap(c => [...c.stages, c.item, c.packet])]);
+const NOT_PLACEABLE = new Set(['hoe', 'can', 'bag', 'sprinkler', 'jam', 'shovel', 'rod', 'shoes', 'sneakers', 'dig_spot', 'basket', 'basket_copper', 'basket_gold', 'hoe_copper', 'hoe_gold', 'can_copper', 'can_gold', 'shovel_copper', 'shovel_gold', 'berry_bush_bare', 'berries', 'pinecone', 'stone', 'stick', 'beanie', 'longsleeve', 'jeans', 'white_sneakers', 'note_red', 'note_yellow', 'note_blue', 'bird0', 'bird1', 'bird_fly0', 'bird_fly1', ...Object.values(CROPS).flatMap(c => [...c.stages, c.item, c.packet])]);
 export const isGround = n => /^(grass|path|soil(wet)?|cobbleb?|brickb?|shallow|deep|wildcool|wildwarm)\d+$/.test(n);
 export const isPaved = n => /^(path|cobbleb?|brickb?)\d+$/.test(n);
 // Where a road reaches a map's edge: rows on the left/right edges, columns on the top/bottom ('up'/'down').

diff --git a/src/forage.js b/src/forage.js
@@ -1,12 +1,13 @@
 // Forage: things to pick up, mostly in the Wilds, with a few turning up on the farm each morning.
 //   Berries come from berry bushes (press Use facing one; it grows back by morning). Eat them for a little energy.
 //   Pinecones lie around pine trees, sticks around the other trees, and stones in the open; walk over them to pick them up.
-//   (Pinecones, sticks and stones are for crafting, later.)
+//   Stones, sticks and berries are for crafting (Pause > Crafting); pinecones, later.
 export const FORAGE = {
   berries: { name: 'Berries', icon: 'berries', price: 2, energy: 5 }, // energy: eaten with Use while held
   pinecone: { name: 'Pinecone', icon: 'pinecone', price: 2 },
   stone: { name: 'Stone', icon: 'stone', price: 2 },
   stick: { name: 'Stick', icon: 'stick', price: 2 },
+  jam: { name: 'Berry Jam', icon: 'jam', price: 30, energy: 25 }, // crafted from berries (crafting.js)
   // Fish: press Use facing water to cast, and again when it bites.
   fish_minnow: { name: 'Minnow', icon: 'fish_minnow', price: 12 }, fish_trout: { name: 'Trout', icon: 'fish_trout', price: 45 },
   fish_sunfish: { name: 'Sunfish', icon: 'fish_sunfish', price: 15 }, fish_catfish: { name: 'Catfish', icon: 'fish_catfish', price: 55 },

diff --git a/src/crafting.js b/src/crafting.js
@@ -1,0 +1,16 @@
+// Crafting (Pause > Crafting): turn forage into things. Sprinklers go on your farm and water the 8 plots around them each morning.
+export const RECIPES = {
+  sprinkler: { name: 'Sprinkler', needs: { stone: 4, stick: 3 }, about: 'Place it on your farm: waters the 8 plots around it each morning.' },
+  jam: { name: 'Berry Jam', needs: { berries: 5 }, about: 'Sells for 30g, or eat it for 25 energy.' },
+};
+// What's still missing for a recipe, given count(id) of what you carry: [[id, short by], ...] (empty: you can make it).
+export const missing = (id, count) => Object.entries(RECIPES[id].needs).filter(([k, n]) => count(k) < n).map(([k, n]) => [k, n - count(k)]);
+// The plots a set of sprinklers waters: the 8 tiles around each one.
+export function sprinkled(keys) {
+  const out = new Set();
+  for (const key of keys) {
+    const [x, y] = key.split(',').map(Number);
+    for (let dy = -1; dy <= 1; dy++) for (let dx = -1; dx <= 1; dx++) if (dx || dy) out.add(`${x + dx},${y + dy}`);
+  }
+  return out;
+}

diff --git a/test/crafting.test.js b/test/crafting.test.js
@@ -1,0 +1,16 @@
+import test from 'node:test';
+import assert from 'node:assert/strict';
+import { RECIPES, missing, sprinkled } from '../src/crafting.js';
+
+test('a recipe says what you are short of', () => {
+  const have = { stone: 4, stick: 1 }, count = id => have[id] ?? 0;
+  assert.deepEqual(missing('sprinkler', count), [['stick', 2]]);
+  have.stick = 3; assert.deepEqual(missing('sprinkler', count), []);
+  assert.ok(RECIPES.jam.needs.berries > 0);
+});
+
+test('a sprinkler waters the 8 tiles around it, not its own', () => {
+  const s = sprinkled(['5,5']);
+  assert.equal(s.size, 8); assert.ok(s.has('4,4') && s.has('6,6')); assert.ok(!s.has('5,5'));
+  assert.equal(sprinkled(['5,5', '6,5']).size, 12);
+});

diff --git a/src/inventory.js b/src/inventory.js
@@ -4,6 +4,7 @@ export const TOOLS = {
   can:   { name: 'Watering Can', icon: 'can' },
   seeds: { name: 'Seeds' },
   shovel: { name: 'Shovel',      icon: 'shovel' }, // bought from Bella; carried in the bag like an item
+  sprinkler: { name: 'Sprinkler', icon: 'sprinkler' }, // crafted (crafting.js); stacks, and goes on your farm
   rod:    { name: 'Fishing Rod', icon: 'rod' }, // also from Bella; fishing needs it in the active hotbar slot
 };
 export const HOTBAR = 8, LOCKED = 2, BAG = 16, BIN = 5; // bin slots come after the bag

diff --git a/test/forage.test.js b/test/forage.test.js
@@ -6,7 +6,7 @@ import { findPath } from '../src/villagers.js';
 import { exitRows } from '../src/map-data.js';
 
 test('forage sells for 2 gold each, and berries can be eaten', () => {
-  for (const [id, f] of Object.entries(FORAGE)) if (!id.startsWith('fish_')) assert.equal(f.price, 2);
+  for (const [id, f] of Object.entries(FORAGE)) if (!id.startsWith('fish_') && id !== 'jam') assert.equal(f.price, 2);
   assert.ok(FORAGE.berries.energy > 0);
 });
 let sticks = 0;

diff --git a/src/guide.js b/src/guide.js
@@ -12,7 +12,8 @@ export const CONTROLS = [
   ['Forage', 'Walk over it; Use on berry bushes'],
   ['Tools', "Upgrade at Bella's store (T: Tool upgrades)"],
   ['Strays', 'Pet or give berries: 3 hearts to adopt'],
-  ['Eat', 'Use while holding berries'],
+  ['Eat', 'Use while holding berries or jam'],
+  ['Craft', 'Pause > Crafting: sprinklers, berry jam'],
   ['Pause', 'Esc / P, or tap II'],
   ['Help', '? key, or tap ?'],
   ['Map', 'M, or tap the globe'],

diff --git a/tools/make_art.py b/tools/make_art.py
@@ -235,6 +235,25 @@ def backpack():  # light blue pack with brown straps, flap and buckle
     d.rectangle([14, 13, 18, 16], C('#e8c25a')); d.point((16, 14), C('#7a4a26'))  # buckle
     d.line([(12, 22), (20, 22)], C('#4d93bf'))  # pocket seam
     return outline(im)
+def sprinkler():  # a stone base, a stick riser and a brass head spraying water both ways
+    im = new()
+    shape(im, lambda d: d.ellipse([8, 22, 24, 30]), '#9a9a92', '#c4c4ba', '#6a6a64', 1)  # stone base
+    d = ImageDraw.Draw(im); d.line([(16, 24), (16, 13)], C('#8a5a2e'), 3); d.line([(15, 23), (15, 14)], C('#b07a44'), 1)  # stick riser
+    shape(im, lambda d: d.rounded_rectangle([12, 9, 20, 14], 2), '#d8a838', '#f2d070', '#9a7020', 1)  # brass head
+    for side in (-1, 1):
+        for k, (dx, dy) in enumerate([(5, -3), (9, -2), (12, 1)]):
+            d.point((16 + side * dx, 9 + dy), C('#9cd4ee' if k % 2 else '#5cb0e0')); d.point((16 + side * dx, 10 + dy), C('#b9dcf2'))
+    return outline(im)
+def jam():  # a jar of berry jam with a gingham lid and a label
+    im = new()
+    shape(im, lambda d: d.rounded_rectangle([9, 11, 23, 28], 4), '#b0283a', '#e0506a', '#701828')  # jam in glass
+    d = ImageDraw.Draw(im); d.line([(11, 14), (11, 24)], C('#f8c0c8'), 1)  # shine
+    shape(im, lambda d: d.rounded_rectangle([8, 6, 24, 11], 2), '#f4f1ea', '#ffffff', '#b8b4aa', 1)  # lid cloth
+    for x in range(9, 24, 3): d.line([(x, 7), (x, 10)], C('#e0485a'))
+    d.line([(9, 11), (23, 11)], C('#8a5a2e'))  # string
+    shape(im, lambda d: d.rectangle([12, 17, 20, 22]), '#f0e0b0', '#fff4d0', '#c0a870', 1)  # label
+    d.point((15, 19), C('#b0283a')); d.point((17, 20), C('#b0283a'))
+    return outline(im)
 def shovel():  # long handle with a D grip at the top, rounded pointed blade at the bottom
     im = new(); d = ImageDraw.Draw(im)
     d.line([(11, 21), (24, 7)], C('#a86a3a'), 3); d.line([(12, 20), (23, 8)], C('#c88a50'), 1)
@@ -1312,7 +1331,7 @@ for j in range(3):
 for kind in ('carrot', 'turnip', 'cabbage'):
     for s in range(4): add(f'{kind}{s}', crop(kind, s))
     add(f'{kind}_item', ITEMS[kind]); add(f'{kind}_packet', packet(ITEMS[kind]))
-add('hoe', hoe()); add('can', can()); add('bag', backpack())
+add('hoe', hoe()); add('can', can()); add('bag', backpack()); add('sprinkler', sprinkler()); add('jam', jam())
 add('tree_green', tall_tree(('#4f9e3a', '#6fc04f', '#357a2a'))); add('tree_orange', tall_tree(('#e0892f', '#f5ad4f', '#b0601f')))
 add('tree', small_tree()); add('mushrooms', mushrooms())
 add('pine', pine()); add('oak', oak()); add('shrub_large', shrub(2 * S)); add('shrub_flower', shrub(S, True))
